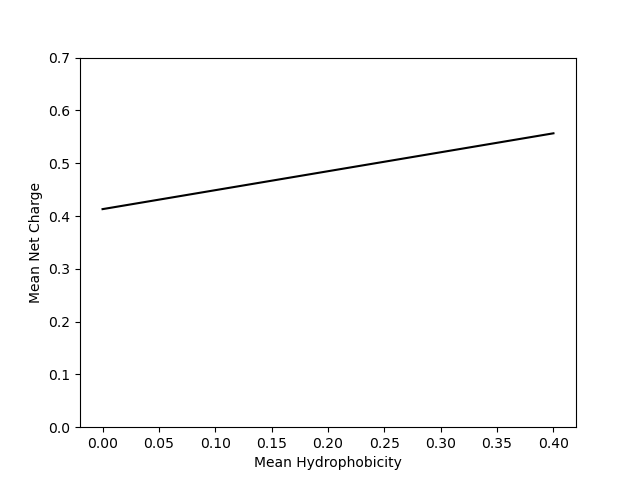
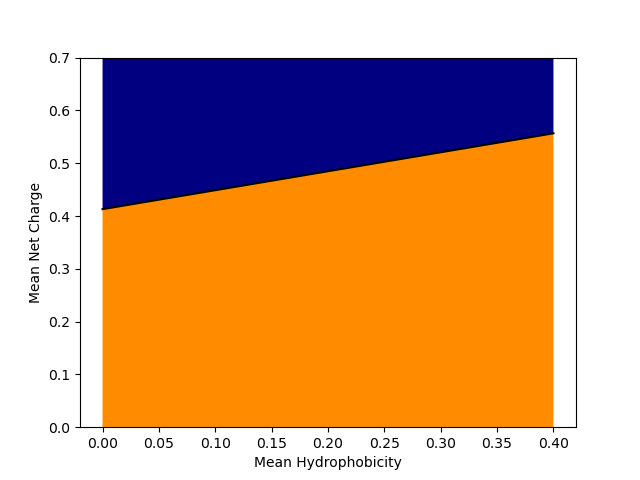
Working on issue #75

diff --git a/templates/index.html b/templates/index.html
@@ -224,7 +224,7 @@ the SNP will turn red and if the user chooses to click on the SNP the ClinVar da
 		var Das_Pappu_text = "<p>The Das-Pappu phase diagram provides a means to estimate how a disordered sequence might behave based on the charge content. Each blob is colored according to the region they fall in Das-Pappu phase diagram. </p> <img src=\"/static/daspappu_graph.png\" width=\"350\" height=\"350\"> "+
 			"<p> <i> <b> Figure adapted from: </b> <a href=\"https://www.pnas.org/content/early/2013/07/29/1304749110\" target=\"_blank\"> Das RK, Pappu RV (2013) Conformations of intrinsically disordered proteins are influenced by linear sequence distributions of oppositely charged residues PNAS 110(33):13392–13397.</i> </p>"
 		var ncpr_tool_text = "<p>For each blob its net charge per residue (NCPR) is calculated. Each blob is evaluated based on it's fraction of both positively and negatively charged residues. The darker blue a blob is shown here, the higher the fraction of positively charged residues are present within the blob. Alternatively, the darker red a blob is shown here, the higher the fraction of negatively charged residues are present within the blob. An even fraction of positive or negative, or a low fraction of any charged residues, results in a grey color.</p>"
-		var uversky_tool_text = "<p>For each blob its distance from the line representing the boundary between ordered and disordered proteins on the Uversky diagram (shown below) is plotted. Postive values are disordered and negative values are ordered. </p> <img src=\"/static/uversky_plot.png\" width=\"375\" height=\"275\"> <p> <i> <b> Figure adapted from: </b> <a href=\"https://pubmed.ncbi.nlm.nih.gov/11025552/\" target=\"_blank\"> Uversky VN, Gillespie JR, Fink AL (2002) Why are \"natively unfolded\" proteins unstructured under physiologic conditions? </i> </p>"
+		var uversky_tool_text = "<p>For each blob its signed normal displeacement from the line representing the boundary between ordered (natively folded) and disordered (natively unfolded) proteins on the Uversky diagram (shown below) is plotted. Calculated negative values (represented in orange) are ordered and positive values (shown in blue) are disordered and plotted on the visualization to the left. </p> <img src=\"/static/uversky_plot.png\" width=\"375\" height=\"275\"> <p> <i> <b> Figure adapted from: </b> <a href=\"https://pubmed.ncbi.nlm.nih.gov/11025552/\" target=\"_blank\"> Uversky VN, Gillespie JR, Fink AL (2002) Why are \"natively unfolded\" proteins unstructured under physiologic conditions? </i> </p>"
 
 		var enrichment_tool_text = "<p>Here, blobs are colored based upon their enrichment in disease associated SNPs (dSNPs). This idea was investigated in the context of aggregating and non-aggregating proteins at various blob lengths and hydrophobicity cutoffs in a forthcoming paper, from which the figure below is presented (Lohia, et al). </p> <img src=\"/static/dsnp_enrich.png\" width=\"300\" height=\"350\">"
 		var disorder_tool_text = "<p>For each blob its fraction of disordered residue is calculated. This disorder calculation is only available if the user uses the Uniprot ID, and uses information provided by the Database of Disordered Protein Prediction. <i> <a href=\"https://academic.oup.com/nar/article/41/D1/D508/1069637\" target=\"_blank\"> Oates et al., D2P2: database of disordered protein predictions, Nucleic Acids Research, Volume 41, Issue D1, 1 January 2013, Pages D508–D516, https://doi.org/10.1093/nar/gks1226</i></p>"
